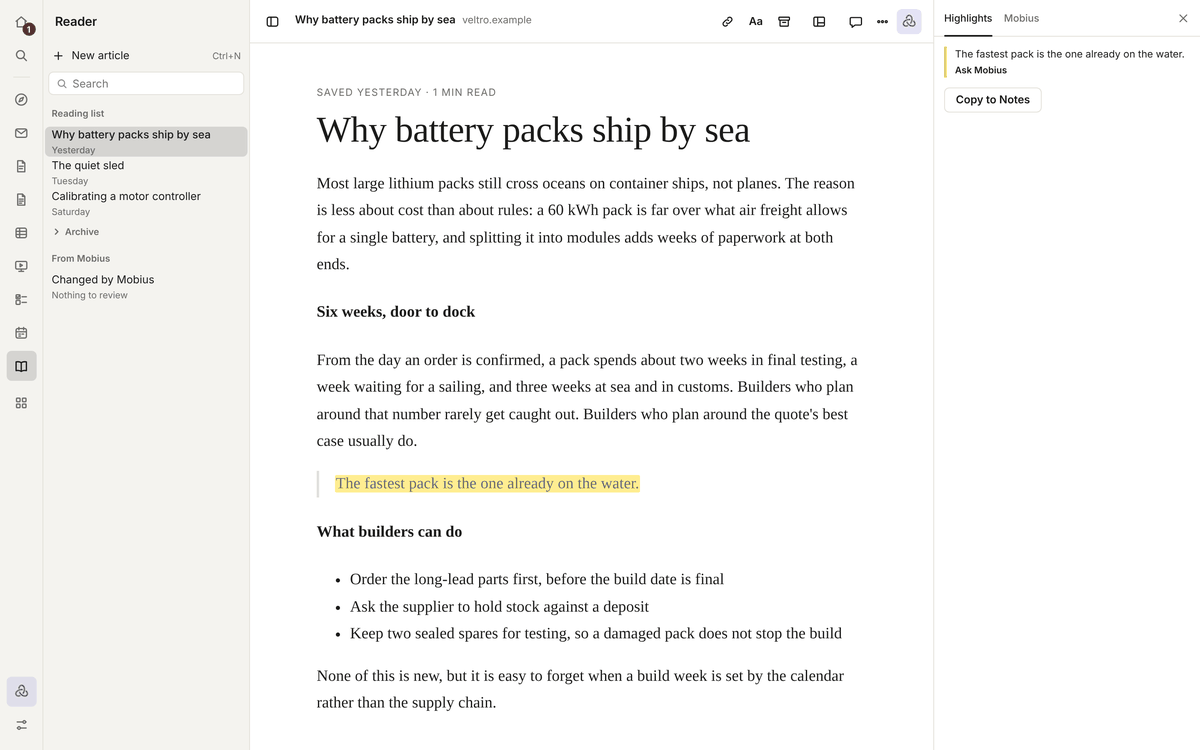
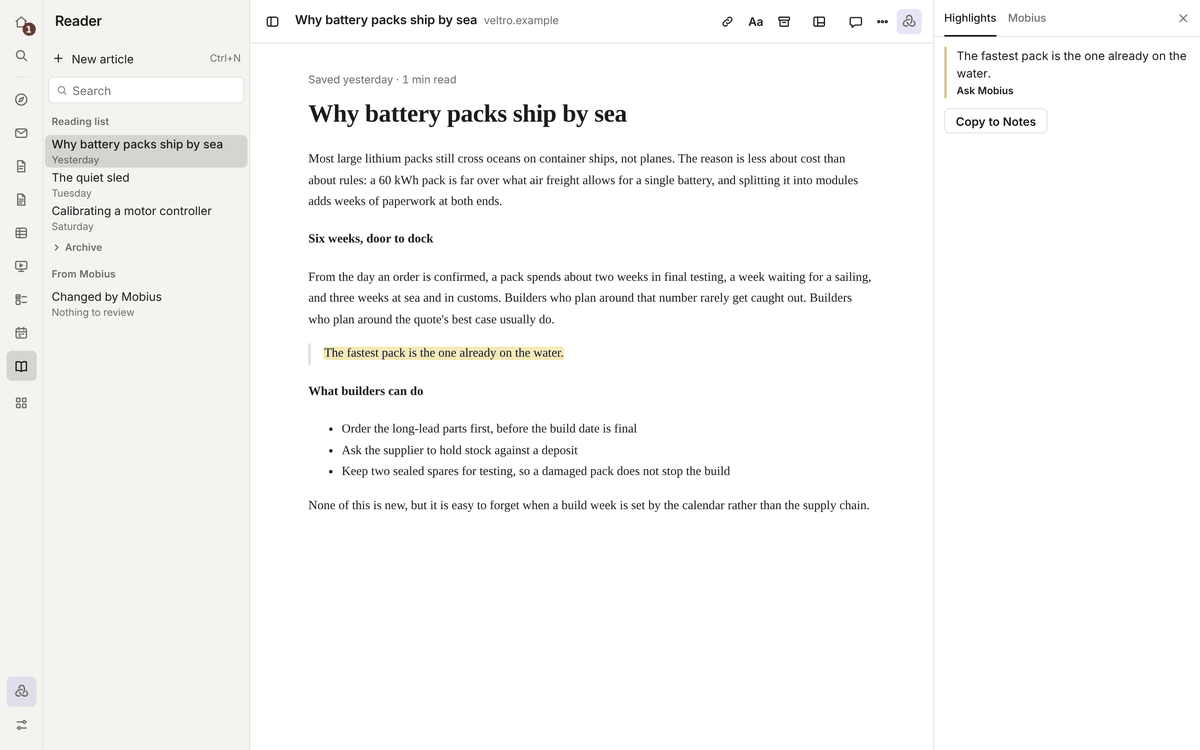
Reader: Instrument round (#184)
* Reader: Instrument round (tokens, reading page, key caps and keyed tooltips)

Claude-Session: https://claude.ai/code/session_01VRGwo5ocPw4ZiZYwURqwHX

* Reader: full ink on highlights, lighter tint on Grey and Night pages (4.5:1 or better)

Claude-Session: https://claude.ai/code/session_01VRGwo5ocPw4ZiZYwURqwHX

---------

diff --git a/apps/desktop/src/reader.css b/apps/desktop/src/reader.css
@@ -1,14 +1,16 @@
 /* Reader: an article with the page to itself, as in Safari Reader and Apple Books. */
 .stage .reader-page { position: absolute; z-index: 1; inset: 0; display: flex; flex-direction: column; background: var(--bg); color: var(--ink); overflow: hidden; transition: background-color var(--dur-med) var(--ease), color var(--dur-med) var(--ease); }
 
-/* Page colours. Match Mobius keeps the app's own light or dark look. */
-.reader-page[data-theme="sepia"] { --bg: #f8f1e3; --ink: #4f321c; --muted: #8a6f55; --line: rgba(79, 50, 28, 0.16); --hairline: rgba(79, 50, 28, 0.14); --field: rgba(79, 50, 28, 0.06); --soft: #efe4cf; --capsule: #fdf8ee; --line-strong: rgba(79, 50, 28, 0.28); color-scheme: light; }
-.reader-page[data-theme="grey"] { --bg: #4a4a4d; --ink: #e8e8ea; --muted: #b8b8bd; --line: rgba(255, 255, 255, 0.16); --hairline: rgba(255, 255, 255, 0.14); --field: rgba(255, 255, 255, 0.08); --soft: #58585c; --capsule: #5a5a5e; --line-strong: rgba(255, 255, 255, 0.24); color-scheme: dark; }
-.reader-page[data-theme="night"] { --bg: #121212; --ink: #c9c9cc; --muted: #8e8e93; --line: rgba(255, 255, 255, 0.12); --hairline: rgba(255, 255, 255, 0.1); --field: rgba(255, 255, 255, 0.06); --soft: #242426; --capsule: #1f1f21; --line-strong: rgba(255, 255, 255, 0.2); color-scheme: dark; }
+/* Page colours. Match Mobius keeps the app's own light or dark look; the other three are the page's own colours,
+   named once here for the page and for the swatches in Aa. */
+:root { --reader-serif: "Iowan Old Style", "Palatino Linotype", Georgia, serif; --reader-sepia: #f8f1e3; --reader-sepia-ink: #4f321c; --reader-grey: #4a4a4d; --reader-grey-ink: #e8e8ea; --reader-night: #121212; --reader-night-ink: #c9c9cc; }
+.reader-page[data-theme="sepia"] { --bg: var(--reader-sepia); --ink: var(--reader-sepia-ink); --muted: #8a6f55; --line: rgba(79, 50, 28, 0.16); --hairline: rgba(79, 50, 28, 0.14); --field: rgba(79, 50, 28, 0.06); --soft: #efe4cf; --capsule: #fdf8ee; --line-strong: rgba(79, 50, 28, 0.28); color-scheme: light; }
+.reader-page[data-theme="grey"] { --reader-mark: 20%; --bg: var(--reader-grey); --ink: var(--reader-grey-ink); --muted: #b8b8bd; --line: rgba(255, 255, 255, 0.16); --hairline: rgba(255, 255, 255, 0.14); --field: rgba(255, 255, 255, 0.08); --soft: #58585c; --capsule: #5a5a5e; --line-strong: rgba(255, 255, 255, 0.24); color-scheme: dark; }
+.reader-page[data-theme="night"] { --reader-mark: 30%; --bg: var(--reader-night); --ink: var(--reader-night-ink); --muted: #8e8e93; --line: rgba(255, 255, 255, 0.12); --hairline: rgba(255, 255, 255, 0.1); --field: rgba(255, 255, 255, 0.06); --soft: #242426; --capsule: #1f1f21; --line-strong: rgba(255, 255, 255, 0.2); color-scheme: dark; }
 
-.reader-save { display: flex; align-items: center; gap: var(--sp-2); min-height: 44px; padding: 0 12px; border-bottom: var(--hairline-w, 0.5px) solid var(--line); }
-.reader-save input { flex: 1; min-width: 0; height: 30px; padding: 0 12px; border-radius: var(--radius-pill); border: 0.5px solid var(--hairline); background: var(--field); color: var(--ink); font: inherit; font-size: var(--fs-sm); }
-.reader-message { margin: 4px 16px 0; color: var(--danger); font-size: var(--fs-sm); }
+.reader-save { display: flex; align-items: center; gap: var(--sp-2); min-height: var(--row-list); padding: 0 var(--sp-3); border-bottom: var(--hairline-w) solid var(--line); }
+.reader-save input { flex: 1; min-width: 0; height: var(--control-h); padding: 0 var(--sp-3); border-radius: var(--radius-control); border: var(--hairline-w) solid var(--line); background: var(--field); color: var(--ink); font: inherit; font-size: var(--fs-md); }
+.reader-message { margin: var(--sp-1) var(--sp-4) 0; color: var(--danger); font-size: var(--fs-sm); }
 
 /* How far through: a hairline that fills as you read. */
 .reader-main { flex: 1; display: flex; flex-direction: column; min-height: 0; }
@@ -17,55 +19,55 @@
 
 /* Aa. */
 .reader-aa { position: relative; display: inline-flex; }
-.reader-aa-btn { font-weight: 600; font-size: var(--fs-md); letter-spacing: -0.01em; padding: 0 8px; }
-.reader-aa-btn[aria-expanded="true"] { color: var(--accent); background: color-mix(in srgb, var(--accent) 13%, transparent); }
-.reader-aa-panel { position: absolute; top: calc(100% + 8px); left: 50%; translate: -50% 0; z-index: 20; width: 248px; display: grid; gap: 10px; padding: 10px; border-radius: 14px; border: 0.5px solid var(--hairline); box-shadow: 0 12px 32px rgba(0, 0, 0, 0.16), 0 1px 3px rgba(0, 0, 0, 0.08); color: var(--ink); animation: reader-sheet-in var(--dur-fast) var(--ease); }
+.reader-aa-btn { font-weight: var(--fw-semibold); font-size: var(--fs-md); letter-spacing: -0.01em; padding: 0 var(--sp-2); }
+.reader-aa-btn[aria-expanded="true"] { color: var(--ink); background: var(--sel); }
+.reader-aa-panel { position: absolute; top: calc(100% + var(--sp-2)); left: 50%; translate: -50% 0; z-index: 20; width: var(--menu-min-w); min-width: 248px; display: grid; gap: var(--sp-2); padding: var(--menu-pad); border-radius: var(--radius-panel); border: 0; background: var(--raised); box-shadow: var(--shadow-menu); color: var(--ink); animation: reader-sheet-in var(--dur-fast) var(--ease); }
 @keyframes reader-sheet-in { from { opacity: 0; transform: translateY(-4px) scale(0.98); } }
-.reader-aa-sizes { display: flex; padding: 2px; border-radius: 10px; background: color-mix(in srgb, var(--ink) 6%, transparent); }
-.reader-aa-sizes button { flex: 1; height: 34px; border-radius: 8px; color: var(--ink); font-weight: 500; transition: background-color var(--dur-fast) var(--ease); }
-.reader-aa-sizes button[data-size="down"] { font-size: 13px; }
-.reader-aa-sizes button[data-size="up"] { font-size: 20px; }
-.reader-aa-sizes button + button { box-shadow: inset 0.5px 0 0 var(--hairline); }
-.reader-aa-sizes button:hover:not(:disabled) { background: color-mix(in srgb, var(--ink) 8%, transparent); }
+.reader-aa-sizes { display: flex; padding: 2px; border-radius: var(--radius-control); background: var(--field); }
+.reader-aa-sizes button { flex: 1; height: var(--control-h); border-radius: var(--radius-small); color: var(--ink); font-weight: var(--fw-medium); transition: background-color var(--dur-fast) var(--ease); }
+.reader-aa-sizes button[data-size="down"] { font-size: var(--fs-sm); }
+.reader-aa-sizes button[data-size="up"] { font-size: var(--fs-xl); }
+.reader-aa-sizes button + button { box-shadow: inset var(--hairline-w) 0 0 var(--line); }
+.reader-aa-sizes button:hover:not(:disabled) { background: var(--sel); }
 .reader-aa-sizes button:disabled { opacity: 0.35; }
 .reader-aa-faces { display: grid; gap: 1px; }
-.reader-aa-faces button { display: flex; align-items: center; justify-content: space-between; padding: 6px 10px; border-radius: 8px; color: var(--ink); font-size: var(--fs-md); text-align: left; transition: background-color var(--dur-fast) var(--ease); }
-.reader-aa-faces button:hover { background: color-mix(in srgb, var(--ink) 7%, transparent); }
-.reader-aa-faces button[data-face="serif"] { font-family: "Iowan Old Style", "Palatino Linotype", Georgia, serif; font-size: calc(var(--fs-md) + 1px); }
-.reader-aa-faces svg { width: 16px; height: 16px; fill: none; stroke: var(--accent); stroke-width: 2; stroke-linecap: round; stroke-linejoin: round; }
-.reader-aa-themes { display: flex; justify-content: space-between; padding: 2px 6px; }
-.reader-aa-themes button { width: 36px; height: 36px; border-radius: 50%; border: 0.5px solid rgba(0, 0, 0, 0.18); box-shadow: 0 0 0 0 transparent; transition: box-shadow var(--dur-fast) var(--ease); }
-.reader-aa-themes button[aria-pressed="true"] { box-shadow: 0 0 0 2px var(--panel-bg, var(--bg)), 0 0 0 4px var(--accent); }
-.reader-aa-themes button[data-theme="auto"] { background: linear-gradient(135deg, #ffffff 50%, #1c1c1e 50%); }
-.reader-aa-themes button[data-theme="sepia"] { background: #f8f1e3; }
-.reader-aa-themes button[data-theme="grey"] { background: #4a4a4d; }
-.reader-aa-themes button[data-theme="night"] { background: #121212; border-color: rgba(255, 255, 255, 0.2); }
+.reader-aa-faces button { display: flex; align-items: center; justify-content: space-between; height: var(--menu-row-h); padding: 0 var(--sp-2); border-radius: var(--radius-control); color: var(--ink); font-size: var(--fs-md); text-align: left; transition: background-color var(--dur-fast) var(--ease); }
+.reader-aa-faces button:hover { background: var(--sel); }
+.reader-aa-faces button[data-face="serif"] { font-family: var(--reader-serif); font-size: var(--fs-lg); }
+.reader-aa-faces svg { width: 16px; height: 16px; fill: none; stroke: var(--ink); stroke-width: 2; stroke-linecap: round; stroke-linejoin: round; }
+.reader-aa-themes { display: flex; justify-content: space-between; padding: 2px var(--sp-2); }
+.reader-aa-themes button { width: var(--control-h); height: var(--control-h); border-radius: 50%; border: var(--hairline-w) solid var(--line); box-shadow: 0 0 0 0 transparent; transition: box-shadow var(--dur-fast) var(--ease); }
+.reader-aa-themes button[aria-pressed="true"] { box-shadow: 0 0 0 2px var(--raised), 0 0 0 4px var(--ink); }
+.reader-aa-themes button[data-theme="auto"] { background: linear-gradient(135deg, var(--paper) 50%, var(--ink) 50%); }
+.reader-aa-themes button[data-theme="sepia"] { background: var(--reader-sepia); }
+.reader-aa-themes button[data-theme="grey"] { background: var(--reader-grey); }
+.reader-aa-themes button[data-theme="night"] { background: var(--reader-night); }
 
 /* The article. */
 .reader-scroll { flex: 1; min-height: 0; overflow-y: auto; }
-.reader-article { width: min(660px, calc(100% - 64px)); margin: 0 auto; padding: 48px 0 96px; --read-size: 19px; }
-.reader-article[data-size="xs"] { --read-size: 15px; }
-.reader-article[data-size="s"] { --read-size: 17px; }
-.reader-article[data-size="l"] { --read-size: 22px; }
-.reader-article[data-size="xl"] { --read-size: 25px; }
-.reader-article[data-face="serif"] .reader-body, .reader-article[data-face="serif"] .reader-title { font-family: "Iowan Old Style", "Palatino Linotype", Georgia, serif; }
-.reader-eyebrow { display: flex; flex-wrap: wrap; gap: 0 8px; margin: 0 0 12px; color: var(--muted); font-size: var(--fs-sm); letter-spacing: 0.08em; text-transform: uppercase; }
+/* A reading page: one column of --reading-w, body at --fs-reading; Aa steps it down or up from there. */
+.reader-article { width: min(var(--reading-w), calc(100% - 2 * var(--sp-8))); margin: 0 auto; padding: var(--sp-8) 0 calc(3 * var(--sp-8)); --read-size: var(--fs-reading); }
+.reader-article[data-size="xs"] { --read-size: var(--fs-sm); }
+.reader-article[data-size="s"] { --read-size: var(--fs-md); }
+.reader-article[data-size="l"] { --read-size: var(--fs-xl); }
+.reader-article[data-size="xl"] { --read-size: var(--fs-2xl); }
+.reader-article[data-face="serif"] .reader-body, .reader-article[data-face="serif"] .reader-title { font-family: var(--reader-serif); }
+.reader-eyebrow { display: flex; flex-wrap: wrap; gap: 0 var(--sp-2); margin: 0 0 var(--sp-3); color: var(--muted); font-size: var(--fs-sm); }
 .toolbar-sub .reader-source { color: inherit; text-decoration: none; }
 .toolbar-sub .reader-source:hover { color: var(--ink); text-decoration: underline; }
-.reader-title { margin: 0 0 24px; font-size: calc(var(--read-size) * 2.3); font-weight: 400; line-height: 1.12; letter-spacing: -0.01em; }
-.reader-article[data-face="sans"] .reader-title { font-weight: 650; letter-spacing: -0.02em; }
+.reader-title { margin: 0 0 var(--sp-6); font-size: var(--fs-display); font-weight: var(--fw-semibold); line-height: var(--lh-tight); letter-spacing: -0.01em; }
 .reader-body { position: relative; font-size: var(--read-size); line-height: 1.7; }
-.reader-body mark { background: color-mix(in srgb, #ffd60a 45%, transparent); color: inherit; border-radius: 2px; padding: 0 1px; cursor: pointer; }
-.reader-mark-bar { position: absolute; z-index: 3; transform: translateX(-50%); white-space: nowrap; }
-.reader-mark-bar kbd { margin-left: 4px; opacity: 0.6; font-size: 10px; }
-.reader-notice { margin: 8px 0; color: var(--muted); font-size: var(--fs-sm); }
+/* A highlight is a soft tint with full ink on it (4.5:1 at least); the dark page colours take a lighter tint. */
+.reader-body mark { background: color-mix(in srgb, var(--c-yellow) var(--reader-mark, 40%), transparent); color: var(--ink); border-radius: var(--radius-small); padding: 0 1px; cursor: pointer; }
+.reader-mark-bar { position: absolute; z-index: 3; transform: translateX(-50%); white-space: nowrap; font: var(--fs-md)/var(--lh-body) var(--font); }
+.reader-notice { margin: var(--sp-2) 0; color: var(--muted); font-size: var(--fs-sm); }
 /* Highlights, a tab in the right panel before Mobius. */
 .reader-notes { display: grid; gap: var(--sp-3); padding: var(--sp-3); align-content: start; }
 .reader-notes ul { margin: 0; padding: 0; list-style: none; display: grid; gap: var(--sp-3); }
-.reader-notes li { display: grid; gap: 2px; padding-left: 10px; border-left: 3px solid #ffd60a; font-size: var(--fs-sm); line-height: 1.5; color: var(--ink); }
+.reader-notes li { display: grid; gap: 2px; padding-left: var(--sp-3); border-left: 3px solid var(--c-yellow); font-size: var(--fs-md); line-height: 1.5; color: var(--ink); }
 .reader-notes li .btn.link { justify-self: start; height: auto; padding: 0; font-size: var(--fs-xs); }
 .reader-notes > .btn { justify-self: start; }
-.reader-notes-empty { margin: 0; color: var(--muted); font-size: var(--fs-sm); line-height: 1.5; }
+.reader-notes-empty { margin: 0; color: var(--muted); font-size: var(--fs-md); line-height: var(--lh-body); }
 .reader-body h1, .reader-body h2 { font-size: 1.3em; font-weight: 600; margin: 1.6em 0 0.5em; }
 .reader-body h3 { font-size: 1.08em; margin: 1.4em 0 0.4em; }
 .reader-body p { margin: 0 0 1em; }

diff --git a/apps/desktop/src/Reader.tsx b/apps/desktop/src/Reader.tsx
@@ -7,8 +7,8 @@ import { clipToNotes } from './clip';
 import type { NotesState } from './useNotes';
 import { ReviewActions, WhyThis } from './ReviewBar';
 import { EmptyState } from './EmptyState';
-import { SideNew } from './SideNew';
-import { AppSidebar, PanelTab, PointMenu, SidebarRow, SidebarSearch, SidebarSection, ToolbarControls, UndoToast } from './ui';
+import { SideNew, newKeys } from './SideNew';
+import { AppSidebar, KeyCaps, PanelTab, PointMenu, SidebarRow, SidebarSearch, SidebarSection, ToolbarControls, UndoToast } from './ui';
 import './reader.css';
 
 /** The toolbar's grey line for the open article: the site it came from, which opens the original in the Browser. */
@@ -36,7 +36,7 @@ export function ReaderSidebar({ reading, pin, changed }: { reading: NotesState; 
   const remove = async (path: string) => { await reading.remove(path); };
   return (
     <AppSidebar label="Reader sidebar">
-      <SideNew item="article" onNew={() => sendCommand('save-link')} title="Save a link to read later" />
+      <SideNew item="article" onNew={() => sendCommand('save-link')} title={`Save a link (${newKeys()})`} />
       <SidebarSearch label="Search articles" value={query} onChange={setQuery} />
       {lists.map((nb, i) => {
         const pages = [...nb.pages].sort((x, y) => y.modified - x.modified).filter((pg) => !q || pg.title.toLowerCase().includes(q));
@@ -271,7 +271,7 @@ export function ReaderPage({ reading, review, tab, onAsk }: { reading: NotesStat
     return (
       <section className="reader-page" aria-label="Reader" data-theme={look.theme}>
         <ToolbarControls label="Reader">
-          <button type="button" className="strip-btn" aria-label="Save a link" title="Save a link to read later" onClick={startAdding}><LinkGlyph /></button>
+          <button type="button" className="strip-btn" aria-label="Save a link" title={`Save a link (${newKeys()})`} onClick={startAdding}><LinkGlyph /></button>
         </ToolbarControls>
         {saveBar}
         {message && <p className="reader-message" role="alert">{message}</p>}
@@ -286,9 +286,9 @@ export function ReaderPage({ reading, review, tab, onAsk }: { reading: NotesStat
   return (
     <section className="reader-page" aria-label="Reader" data-theme={look.theme}>
       <ToolbarControls label="Reader">
-        <button type="button" className="strip-btn" aria-label="Save a link" title="Save a link to read later" onClick={startAdding}><LinkGlyph /></button>
+        <button type="button" className="strip-btn" aria-label="Save a link" title={`Save a link (${newKeys()})`} onClick={startAdding}><LinkGlyph /></button>
         <LookPanel look={look} onChange={setLook} />
-        {!inArchive && <button type="button" className="strip-btn" aria-label="Done reading" title="Done reading: move it to Archive (E)" aria-keyshortcuts="E" onClick={() => void archive()}><ArchiveGlyph /></button>}
+        {!inArchive && <button type="button" className="strip-btn" aria-label="Done reading" title="Done reading (E)" aria-keyshortcuts="E" onClick={() => void archive()}><ArchiveGlyph /></button>}
       </ToolbarControls>
       {adding && saveBar}
       {message && <p className="reader-message" role="alert">{message}</p>}
@@ -325,7 +325,7 @@ export function ReaderPage({ reading, review, tab, onAsk }: { reading: NotesStat
               onClick={(e) => { const m = (e.target as HTMLElement).closest('mark'); if (m && !window.getSelection()?.toString()) setMarked({ text: m.textContent ?? '', ...place(m.getBoundingClientRect()) }); else if (!m) setMarked(null); }}
             >
               <RichText text={article.body} />
-              {picked && <div className="selection-bar reader-mark-bar" role="toolbar" aria-label="Selected text" style={{ top: picked.top, left: picked.left }}><button type="button" className="selection-btn" onPointerDown={(e) => e.preventDefault()} onClick={() => highlight()}>Highlight <kbd>H</kbd></button>{onAsk && <button type="button" className="selection-btn" onPointerDown={(e) => e.preventDefault()} onClick={() => ask(picked.text)}>Ask Mobius</button>}</div>}
+              {picked && <div className="selection-bar reader-mark-bar" role="toolbar" aria-label="Selected text" style={{ top: picked.top, left: picked.left }}><button type="button" className="selection-btn" onPointerDown={(e) => e.preventDefault()} onClick={() => highlight()}>Highlight <KeyCaps keys="H" /></button>{onAsk && <button type="button" className="selection-btn" onPointerDown={(e) => e.preventDefault()} onClick={() => ask(picked.text)}>Ask Mobius</button>}</div>}
               {marked && <div className="selection-bar reader-mark-bar" role="toolbar" aria-label="Highlight" style={{ top: marked.top, left: marked.left }}><button type="button" className="selection-btn" onClick={() => unmark(marked.text)}>Remove highlight</button>{onAsk && <button type="button" className="selection-btn" onClick={() => ask(marked.text)}>Ask Mobius</button>}</div>}
             </div>
           </article>
